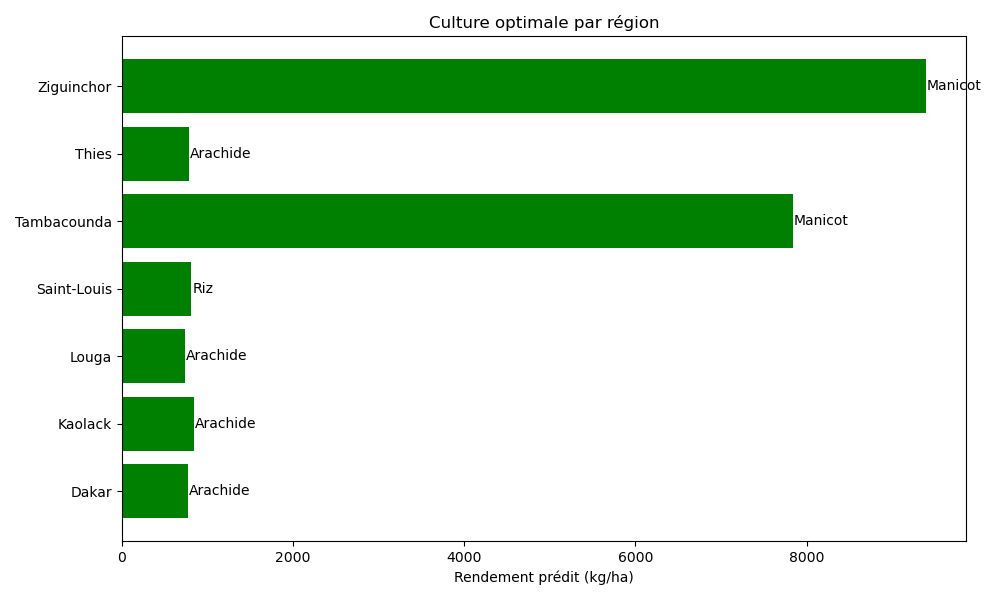
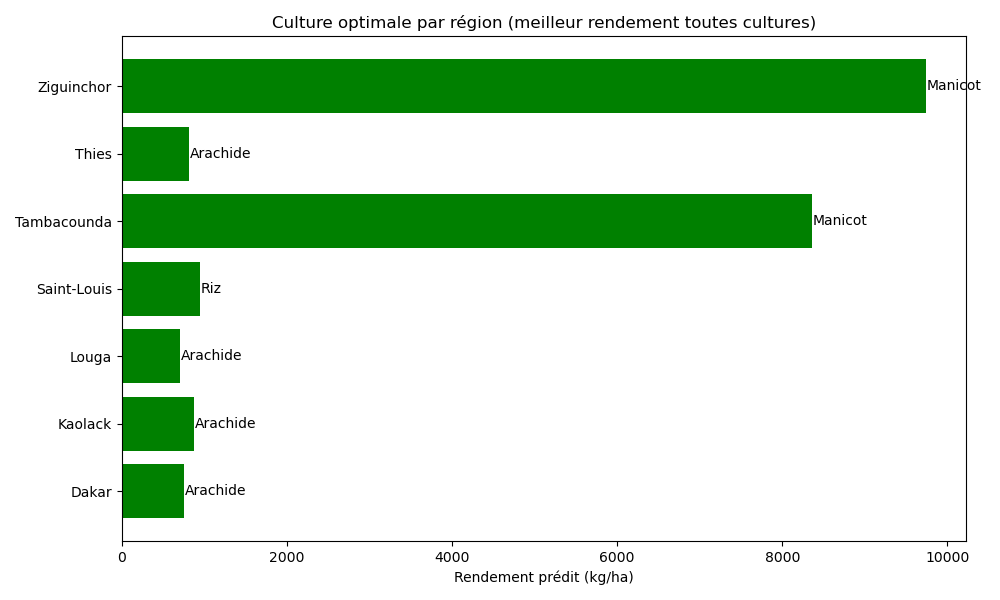
[S4] final: dashboard mis à jour (heatmap, culture optimale, culture optimale par sol) avec les nouvelles prédictions enrichies

diff --git a/dashboard/generate_updated_dashboard.py b/dashboard/generate_updated_dashboard.py
@@ -1,0 +1,42 @@
+import pandas as pd
+import matplotlib.pyplot as plt
+import seaborn as sns
+
+# Charger les prédictions enrichies (ou le CSV des meilleures cultures)
+df_pred = pd.read_csv('data/silver/predictions_enriched.csv')
+
+# 1. Heatmap rendement moyen par culture × région
+agg = df_pred.groupby(['region', 'culture'])['prediction'].mean().reset_index()
+pivot = agg.pivot(index='culture', columns='region', values='prediction')
+plt.figure(figsize=(12,6))
+sns.heatmap(pivot, annot=True, fmt='.0f', cmap='YlGn')
+plt.title('Rendement prédit moyen (kg/ha) par culture et région')
+plt.tight_layout()
+plt.savefig('dashboard/heatmap_rendement.png')
+print("✅ Heatmap mise à jour : dashboard/heatmap_rendement.png")
+
+# 2. Culture optimale par région (tous sols confondus) : culture avec rendement max
+best_global = agg.loc[agg.groupby('region')['prediction'].idxmax()]
+plt.figure(figsize=(10,6))
+plt.barh(best_global['region'], best_global['prediction'], color='green')
+plt.xlabel('Rendement prédit (kg/ha)')
+plt.title('Culture optimale par région (meilleur rendement toutes cultures)')
+for i, (_, row) in enumerate(best_global.iterrows()):
+    plt.text(row['prediction']+10, i, row['culture'], va='center')
+plt.tight_layout()
+plt.savefig('dashboard/culture_optimale.png')
+print("✅ Graphique culture optimale mis à jour : dashboard/culture_optimale.png")
+
+# Bonus : un graphique par type de sol (barres groupées)
+plt.figure(figsize=(14,8))
+best_by_sol = df_pred.groupby(['region', 'type_sol', 'culture'])['prediction'].mean().reset_index()
+best_by_sol = best_by_sol.loc[best_by_sol.groupby(['region','type_sol'])['prediction'].idxmax()]
+for sol in best_by_sol['type_sol'].unique():
+    subset = best_by_sol[best_by_sol['type_sol'] == sol]
+    plt.barh(subset['region'], subset['prediction'], label=sol, alpha=0.7)
+plt.xlabel('Rendement prédit (kg/ha)')
+plt.title('Culture optimale par région et type de sol')
+plt.legend(title='Type de sol')
+plt.tight_layout()
+plt.savefig('dashboard/culture_optimale_par_sol.png')
+print("✅ Graphique détaillé sauvegardé : dashboard/culture_optimale_par_sol.png")
